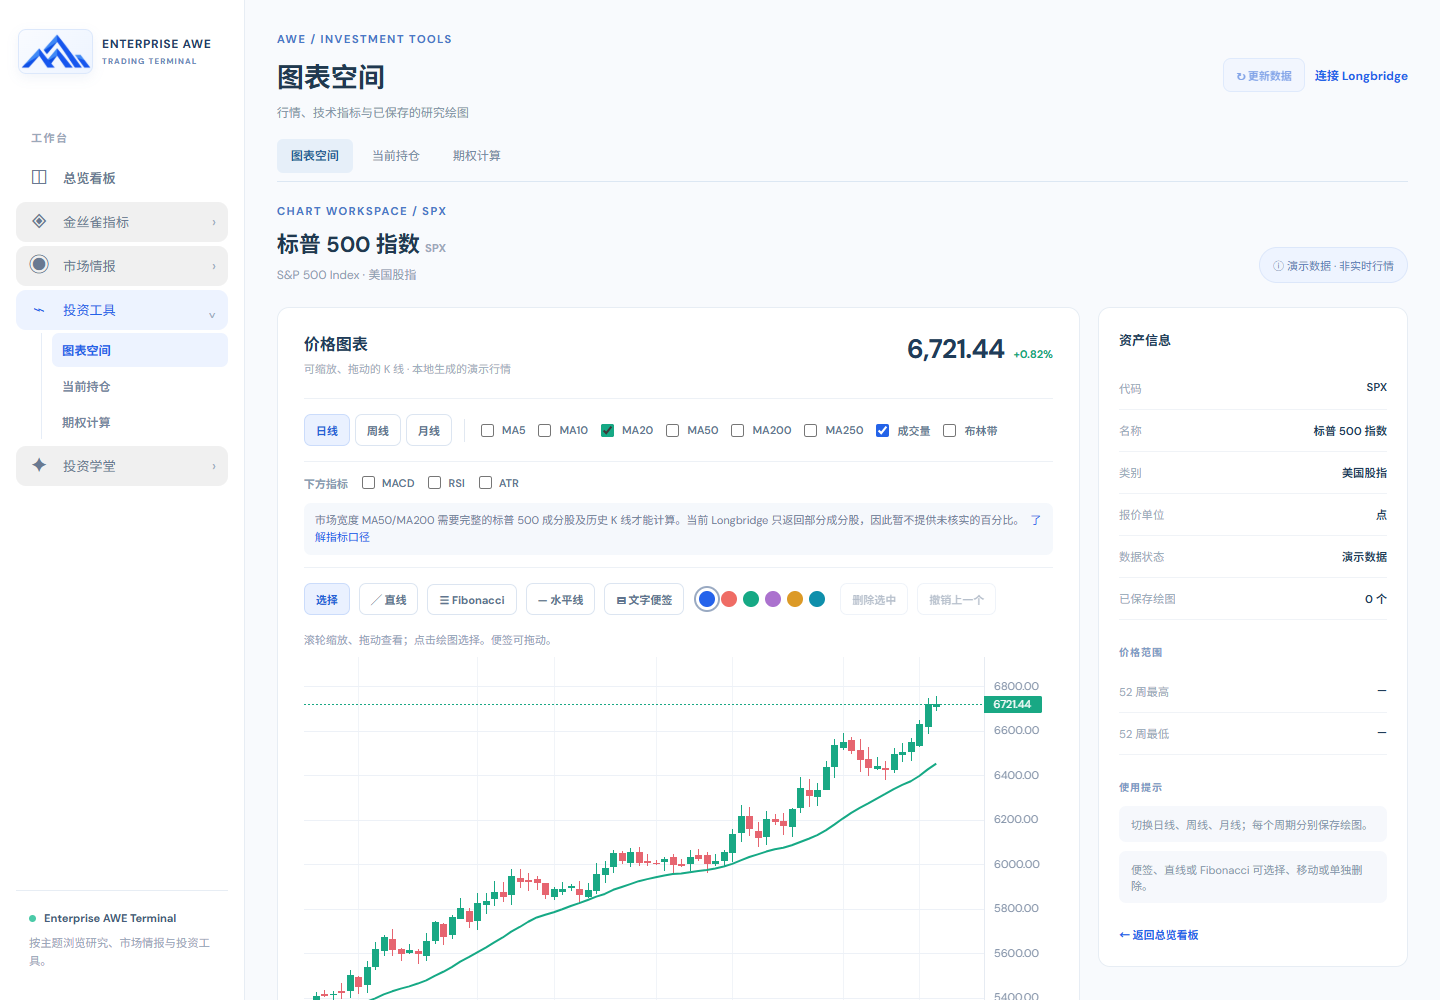
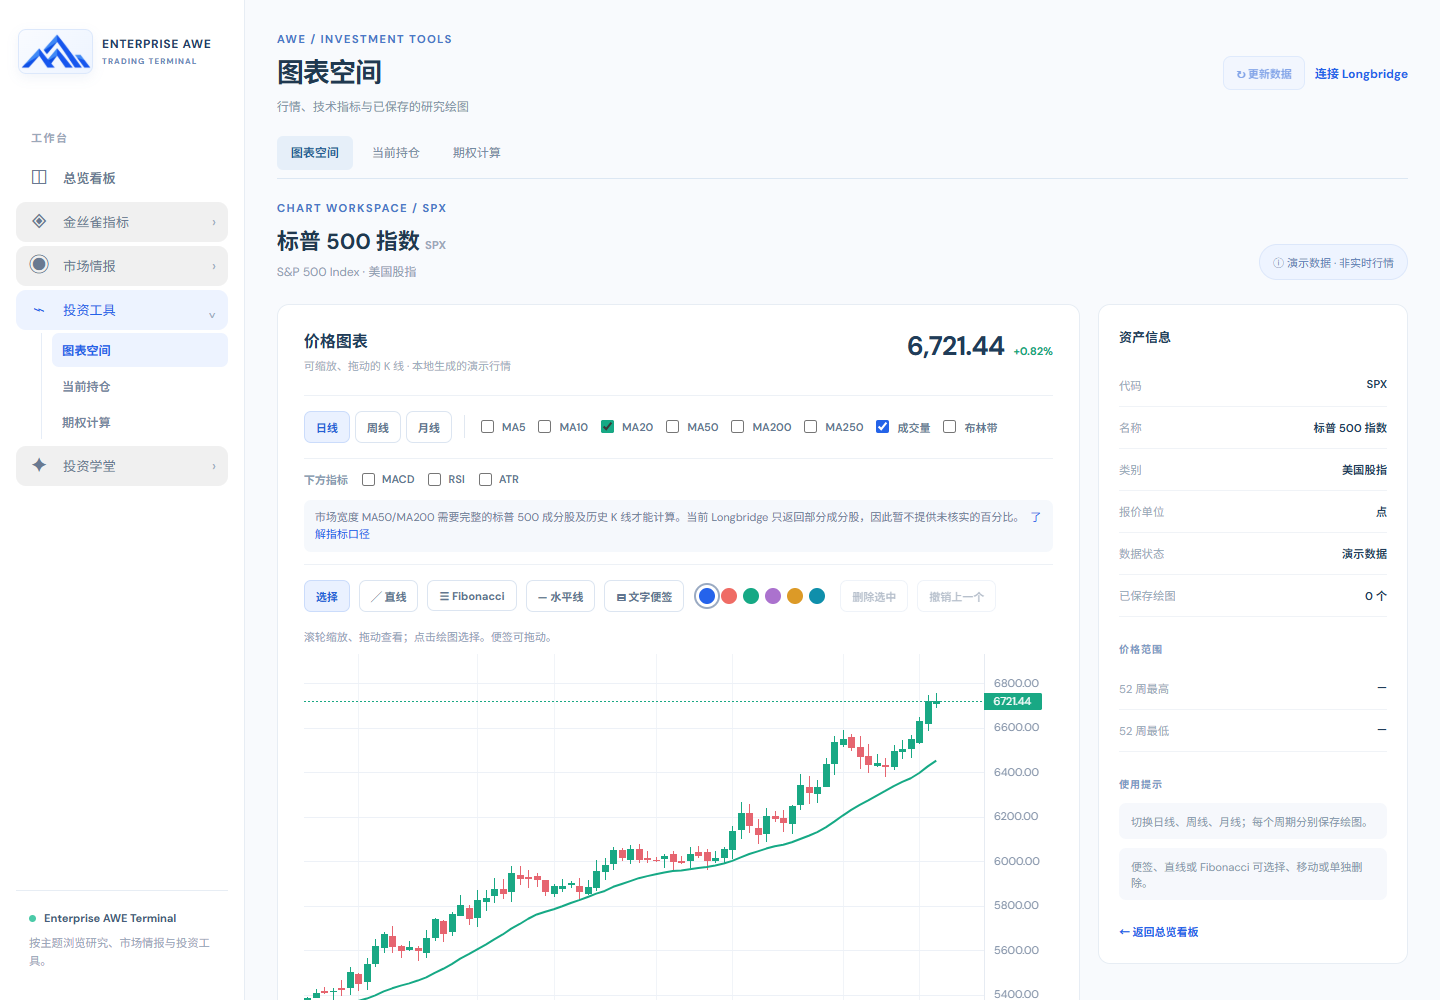
fix: share consistent title styling across investment tools

diff --git a/src/components/portfolio-books.tsx b/src/components/portfolio-books.tsx
@@ -1,6 +1,7 @@
 "use client";
 import {useEffect,useRef,useState} from 'react';
 import {AppSidebar} from './app-sidebar';
+import {ToolsPageHeading} from './tools-page-heading';
 import {ToolsPageNav} from './tools-page-nav';
 import {PortfolioMatrixVisuals} from './portfolio-matrix-visuals';
 import {calculateMatrixTotals} from '../lib/portfolio-matrix-totals';
@@ -66,8 +67,8 @@ export function PortfolioBooks({initial,emptyCore,emptySat,initialReview}:Props)
  const visualTotals=calculateMatrixTotals({...matrix,items:matrix.items.map(i=>({...i,amount:amountCents(i.amount)===null?'':i.amount}))});
  const coreSlices=(['regionId','style','name'] as const).map(key=>{const totals:Record<string,number>={};for(const a of s.funds.flatMap(f=>f.allocated))totals[a[key]]=(totals[a[key]]||0)+a.cents;return {key,totals};});
  const days=Math.floor((Date.now()-Date.parse(review.as_of))/86400000),drift=s.total/(review.anchor.total_wan*1000000)-1;
- return <div className="app-shell"><AppSidebar currentPath="/portfolio"/><main className="main-content"><div className="pb-page">
-  <div className="pb-heading"><div><span className="section-eyebrow">PORTFOLIO / CORE + SATELLITE</span><h1>{mode==='total'?'总仓':mode==='core'?'核心仓':'卫星仓'}</h1><p>填写金额的结构地图 · 非市值 · 固定记账汇率 1 USD = 7.00 CNY</p></div><nav aria-label="持仓视图">{(['total','core','sat'] as const).map(v=><button key={v} aria-pressed={mode===v} onClick={()=>switchMode(v)}>{v==='total'?'总仓':v==='core'?'核心仓':'卫星仓'}</button>)}</nav></div>
+ return <div className="app-shell"><AppSidebar currentPath="/portfolio"/><main className="main-content"><div className="pb-page tools-page-content">
+  <ToolsPageHeading title="当前持仓" description="填写金额的结构地图 · 非市值 · 固定记账汇率 1 USD = 7.00 CNY" actions={<nav aria-label="持仓视图">{(['total','core','sat'] as const).map(v=><button key={v} aria-pressed={mode===v} onClick={()=>switchMode(v)}>{v==='total'?'总仓':v==='core'?'核心仓':'卫星仓'}</button>)}</nav>}/>
   <ToolsPageNav currentPath="/portfolio"/>
   {(['core','sat'] as const).map(book=><div key={book}>{!snap[book].matrix&&<p className="pb-warning">{book==='core'?'核心仓':'卫星仓'}文件缺失，没有可计算的数据。</p>}{initial[book].error&&<p role="alert">{initial[book].error}</p>}{conflicts[book]&&<div className="pb-warning">{book==='core'?'核心仓':'卫星仓'}文件与本机草稿不同，请选择（另一份先备份）：<button disabled={busy[book]} onClick={()=>void persist(book,conflicts[book]!.matrix,snap[book].revision,true)}>用本机覆盖文件</button><button disabled={busy[book]} onClick={()=>chooseFile(book)}>用文件覆盖本机</button><button onClick={()=>exportBook(conflicts[book]!.matrix,book+'-conflict-draft')}>导出本机草稿</button></div>}{errors[book]&&<div role="alert" className="pb-warning">{errors[book]} {!conflicts[book]&&<button disabled={busy[book]} onClick={()=>void persist(book,books[book])}>重试保存</button>}</div>}</div>)}
   {mode==='total'&&<div className="pb-toolbar"><span>数据截至 · 核心 {snap.core.as_of?.slice(0,10)||'未获取'} / 卫星 {snap.sat.as_of?.slice(0,10)||'未获取'}</span>{(['core','sat'] as const).map(book=><span key={book}><button onClick={()=>exportBook(books[book],book==='core'?'core':'matrix')}>导出{book==='core'?'核心仓':'卫星仓'}</button><label className="pb-import">导入{book==='core'?'核心仓':'卫星仓'}<input type="file" accept=".json" disabled={busy[book]||!!conflicts[book]} onChange={e=>void importFile(book,e.target.files?.[0])}/></label></span>)}</div>}

diff --git a/src/app/investment-tools.css b/src/app/investment-tools.css
@@ -1,1 +1,5 @@
-.tools-page-nav{display:flex;gap:5px;flex-wrap:wrap;min-width:0;margin:0 0 18px;padding:18px 0 8px;border-bottom:1px solid #dce7f3}.tools-page-nav a{font-size:12px;line-height:1.5;padding:8px 14px;border-radius:6px;color:#738aa2;white-space:nowrap;text-decoration:none}.tools-page-nav a:hover,.tools-page-nav a[aria-current=page]{background:#e6eff9;color:#245d94}.tools-page-nav a[aria-current=page]{font-weight:600}.tools-page-nav a:focus-visible{outline:2px solid #3478bd;outline-offset:2px}.tools-shell .workspace-main{margin:0;max-width:none;align-self:stretch;padding:28px 32px 50px}.tools-chart-heading{display:flex;justify-content:space-between;align-items:center;gap:18px;flex-wrap:wrap}.tools-chart-heading h1{font-size:27px;margin:8px 0;color:#203950}.tools-chart-heading p{font-size:12px;color:#8394a7;margin:0}.tools-chart-heading .market-refresh-control{position:static;transform:none;display:flex;flex-wrap:wrap;white-space:normal}.tools-chart-heading .market-refresh-control a{font-size:12px}.tools-shell .workspace-intro{gap:18px;flex-wrap:wrap}.tools-shell .workspace-intro>div{min-width:0}.tools-shell .workspace-intro h2{font-size:22px;margin:6px 0;color:#203950}.tools-shell .workspace-demo{white-space:normal;overflow-wrap:anywhere}@media(max-width:620px){.tools-page-nav a{padding:7px 9px;font-size:11px}.tools-shell .workspace-main{padding:18px 12px 32px}.tools-chart-heading h1{font-size:23px}.tools-shell .workspace-intro h2{font-size:20px}}
+.tools-page-nav{display:flex;gap:5px;flex-wrap:wrap;min-width:0;margin:0 0 18px;padding:18px 0 8px;border-bottom:1px solid #dce7f3}.tools-page-nav a{font-size:12px;line-height:1.5;padding:8px 14px;border-radius:6px;color:#738aa2;white-space:nowrap;text-decoration:none}.tools-page-nav a:hover,.tools-page-nav a[aria-current=page]{background:#e6eff9;color:#245d94}.tools-page-nav a[aria-current=page]{font-weight:600}.tools-page-nav a:focus-visible{outline:2px solid #3478bd;outline-offset:2px}.tools-shell .workspace-main{margin:0;max-width:none;align-self:stretch;padding:28px 32px 50px}.tools-shell .workspace-intro{gap:18px;flex-wrap:wrap}.tools-shell .workspace-intro>div{min-width:0}.tools-shell .workspace-intro h2{font-size:22px;margin:6px 0;color:#203950}.tools-shell .workspace-demo{white-space:normal;overflow-wrap:anywhere}@media(max-width:620px){.tools-page-nav a{padding:7px 9px;font-size:11px}.tools-shell .workspace-main{padding:18px 12px 32px}.tools-shell .workspace-intro h2{font-size:20px}}
+
+.app-shell .tools-page-content{margin:0;max-width:none;padding:28px 32px 50px}.tools-page-heading{display:flex;justify-content:space-between;align-items:center;flex-wrap:wrap;gap:18px;padding:0;margin:0;background:transparent;border:0;border-radius:0;box-shadow:none}.tools-page-heading>div{min-width:0}.app-shell .tools-page-heading h1{font-size:27px;line-height:1.25;letter-spacing:-.035em;margin:8px 0;color:#203950}.app-shell .tools-page-heading p{font-size:12px;line-height:1.65;color:#8394a7;margin:0}.tools-page-actions,.tools-page-actions nav{display:flex;gap:10px;align-items:center;flex-wrap:wrap}.tools-page-heading .market-refresh-control{position:static;transform:none;display:flex;flex-wrap:wrap;white-space:normal}.tools-page-heading .market-refresh-control a{font-size:12px}@media(max-width:620px){.app-shell .tools-page-content{padding:18px 12px 32px}.app-shell .tools-page-heading h1{font-size:23px}}
+
+.tools-page-actions nav[aria-label='持仓视图']{display:flex;background:#eaf2fb;padding:5px;border-radius:12px;gap:5px}.tools-page-actions button[aria-pressed=true]{background:#2c6caf;color:#fff}

diff --git a/src/components/chart-workspace.tsx b/src/components/chart-workspace.tsx
@@ -10,6 +10,7 @@ import { atr, bollinger, macd, rsi } from "../lib/indicators";
 import { IndicatorPane } from "./indicator-pane";
 import { MarketRefreshControl } from "./market-refresh-control";
 import { AppSidebar } from "./app-sidebar";
+import { ToolsPageHeading } from "./tools-page-heading";
 import { ToolsPageNav } from "./tools-page-nav";
 import { useLongbridgeMarket } from "../lib/use-longbridge-market";
 
@@ -189,8 +190,8 @@ export function ChartWorkspace({ symbol }: { symbol: MarketSymbol }) {
   return <div className="app-shell workspace-shell tools-shell">
     <AppSidebar currentPath={`/chart/${symbol.id}`}/>
 
-    <main className="main-content workspace-main chart-workspace-main">
-      <header className="tools-chart-heading"><div><span className="section-eyebrow">AWE / INVESTMENT TOOLS</span><h1>图表空间</h1><p>行情、技术指标与已保存的研究绘图</p></div><MarketRefreshControl connected={market.connected} checking={market.checking} refreshing={market.refreshing} returnPath={`/chart/${symbol.id}`} onRefresh={() => market.refresh([symbol.id], symbol.id)} /></header>
+    <main className="main-content workspace-main chart-workspace-main tools-page-content">
+      <ToolsPageHeading title="图表空间" description="行情、技术指标与已保存的研究绘图" actions={<MarketRefreshControl connected={market.connected} checking={market.checking} refreshing={market.refreshing} returnPath={`/chart/${symbol.id}`} onRefresh={() => market.refresh([symbol.id], symbol.id)} />}/>
       <ToolsPageNav currentPath={`/chart/${symbol.id}`}/>
        <div className="workspace-intro"><div><span className="section-eyebrow">CHART WORKSPACE / {symbol.id}</span><h2>{symbol.name} <span className="asset-symbol">{symbol.id}</span></h2><p>{symbol.englishName} · {symbol.category}</p></div><span className="workspace-demo">ⓘ {liveCandles ? symbol.id === "US10Y" ? "美国财政部日度数据" : symbol.id === "BTCUSD" ? "Coinbase BTC/USD" : "Longbridge 按需更新" : showSample ? "演示数据 · 非实时行情" : "等待真实数据"}</span></div>
       {market.error && <p className="market-feedback error" role="alert">{market.error}</p>}

diff --git a/src/components/options-calculator.tsx b/src/components/options-calculator.tsx
@@ -4,6 +4,7 @@ import { AppSidebar } from "./app-sidebar";
 
 
 import { useId, useMemo, useState } from "react";
+import { ToolsPageHeading } from "./tools-page-heading";
 import { ToolsPageNav } from "./tools-page-nav";
 import { OptionsPayoffChart } from "./options-payoff-chart";
 import { analyzeScenario, type PayoffSummary } from "../lib/options-payoff";
@@ -73,7 +74,7 @@ export function OptionsCalculator() {
   return <div className="app-shell options-shell">
     <AppSidebar currentPath="/options" />
     <main className="main-content">
-      <div className="options-content"><div className="options-hero"><span className="section-eyebrow">AWE / OPTIONS LAB · V0.8</span><h1>期权计算</h1><p>先看懂策略的盈亏形状，再代入自己的价格。所有结果均为同一到期日的情景计算。</p></div>
+      <div className="options-content tools-page-content"><ToolsPageHeading title="期权计算" description="先看懂策略的盈亏形状，再代入自己的价格。所有结果均为同一到期日的情景计算。"/>
         <ToolsPageNav currentPath="/options"/>
         <div className="options-scope"><strong>十二种策略 · 到期盈亏</strong><span>价格与权利金均手动输入；图表不使用实时行情，也不预测到期前价格。</span></div>
         <section className="options-catalog" aria-label="期权策略目录"><div className="options-section-head"><div><span className="section-eyebrow">STRATEGY LIBRARY</span><h2>选择策略</h2></div><p>蓝线为使用示例参数绘制的到期盈亏形状</p></div><div className="options-strategy-grid">{STRATEGIES.map((item) => <ExampleCard key={item.id} strategy={item} active={item.id === selectedId} onSelect={() => selectStrategy(item)} />)}</div></section>

diff --git a/src/components/tools-page-heading.tsx b/src/components/tools-page-heading.tsx
@@ -1,0 +1,8 @@
+import type {ReactNode} from 'react';
+
+export function ToolsPageHeading({title,description,actions}:{title:string;description:string;actions?:ReactNode}){
+ return <header className="tools-page-heading">
+  <div><span className="section-eyebrow">AWE / INVESTMENT TOOLS</span><h1>{title}</h1><p>{description}</p></div>
+  {actions&&<div className="tools-page-actions">{actions}</div>}
+ </header>;
+}

diff --git a/docs/v1.16-status.md b/docs/v1.16-status.md
@@ -89,3 +89,15 @@ GitHub：[草稿 PR #33](https://github.com/u17kill/Enterprise-AWE-Trading-termi
 静态检查与20项相关测试（图表12、期权5、持仓1、侧栏2）通过，TypeScript与正式构建通过。浏览器验证见 `scripts/verify-investment-tools.mjs`，覆盖三页四种宽度、共用侧栏、无旧顶栏、标题与切换顺序、个股路由和图表画布尺寸。
 
 投资工具优化浏览器结果：三页在1440/1024/620/390宽度均通过共用左侧导航、无旧topbar、三项工具切换、唯一高亮、标题顺序与页面无横向溢出检查；个股路由、更新按钮、返回总览入口保留，浏览器无脚本错误。截图：[图表桌面](v1.16-tools-chart-1440.png)、[图表窄屏](v1.16-tools-chart-390.png)、[当前持仓](v1.16-tools-portfolio-1440.png)、[持仓窄屏](v1.16-tools-portfolio-390.png)、[期权计算](v1.16-tools-options-1440.png)、[期权窄屏](v1.16-tools-options-390.png)。
+
+## 后续修复：期权计算标题区仍与其他工具不同
+
+用户指出期权计算仍有独立大幅渐变标题卡片。上次仅移除了旧工作台顶栏，未统一options-hero。现三个工具改用共用ToolsPageHeading，取消独立卡片、渐变、阴影、圆角与额外留白；统一内容边距、标题与说明字号/行高、标题后切换栏。当前持仓标题稳定为模块名，总仓/核心仓/卫星仓通过原有右侧按钮选择。功能逻辑未改。
+
+18项相关功能测试、TypeScript与ESLint通过。浏览器脚本新增旧options-hero不存在的断言，修复前失败；并新增三页实际计算样式逐项比对（背景、边框、阴影、标题字号/行高/边距、说明字号/行高及内容边距）。
+
+标题统一补充：持仓视图按钮继续保持选中高亮。浏览器比对在1440/1024/620/390宽度下，三个工具标题区计算样式一致；标题卡片移除的回归断言已通过。更新相关截图。
+
+本项最终复核：正式构建退出码0；三个工具在四档宽度的实际样式比对、持仓视图选中高亮、切换与图表入口检查全部通过，浏览器无脚本错误。
+
+2026-11-26继续收尾：上次Git提交/推送因自动审批检查额度不足未执行（非安全拒绝），本次再次核验18项功能测试与三工具四档宽度样式/切换全部通过，完成代码、截图和版本记录同步。

diff --git a/docs/superpowers/specs/2026-11-24-v116-intelligence-holdings.md b/docs/superpowers/specs/2026-11-24-v116-intelligence-holdings.md
@@ -29,3 +29,5 @@ Q1：低策展比例显式标注，新闻过期按小时、观点人工要点按
 用户指出图表空间仍为独立整页，当前持仓与期权计算仍有旧工作台顶栏。按现有二级页面样式统一：图表空间使用共用AppSidebar、投资工具高亮；移除三个工具页的旧面包屑/跨栏目快捷链接顶栏；保留页面标题，并在标题后显示三项工具横向切换。图表更新与长桥连接移到标题右侧。图表保留具体标的名称、价格、所有周期/技术指标/绘图、保存与返回总览入口。持仓和期权的计算/保存口径不改。窄屏切换栏换行，图表画布跟随容器缩放。
 
 本次是界面与导航的优化，继续随V1.16记录交付。验证覆盖三页相互切换、左侧工具组高亮、无旧顶栏、标题顺序、图表画布/绘图及期权和持仓原操作。
+
+投资工具标题一致性补充：仅统一导航仍不够，期权计算保留的旧渐变大卡片需移除。三个工具共用ToolsPageHeading及同一内容边距，统一上方英文标识、H1字号/行高、说明字号/行高、背景/边框/阴影、切换栏间距。当前持仓使用稳定模块标题，具体总仓/核心/卫星由右侧视图按钮切换。仅各页说明和必要操作不同，不改计算与持久化。

diff --git a/docs/README.md b/docs/README.md
@@ -56,4 +56,4 @@
 
 | 版本 | 需求与方案 | 交付记录 | GitHub |
 | --- | --- | --- | --- |
-| V1.16（主体已验收，含顶栏及投资工具交互优化） | [完整施工图](intelligence-holdings-requirements.md) · [确认方案与栏目澄清](superpowers/specs/2026-11-24-v116-intelligence-holdings.md) · [实施计划](superpowers/plans/2026-11-24-v116-intelligence-holdings.md) | [交付、原持仓保护、修复与验证](v1.16-status.md) | [草稿 PR #33](https://github.com/u17kill/Enterprise-AWE-Trading-terminal/pull/33) |
+| V1.16（主体已验收，含顶栏、投资工具交互及标题一致性优化） | [完整施工图](intelligence-holdings-requirements.md) · [确认方案与栏目澄清](superpowers/specs/2026-11-24-v116-intelligence-holdings.md) · [实施计划](superpowers/plans/2026-11-24-v116-intelligence-holdings.md) | [交付、原持仓保护、修复与验证](v1.16-status.md) | [草稿 PR #33](https://github.com/u17kill/Enterprise-AWE-Trading-terminal/pull/33) |
